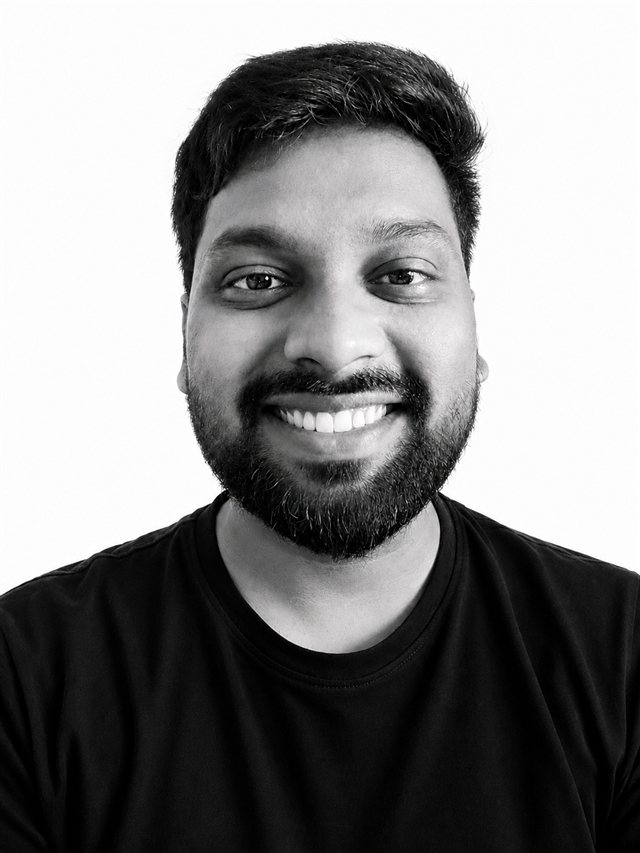
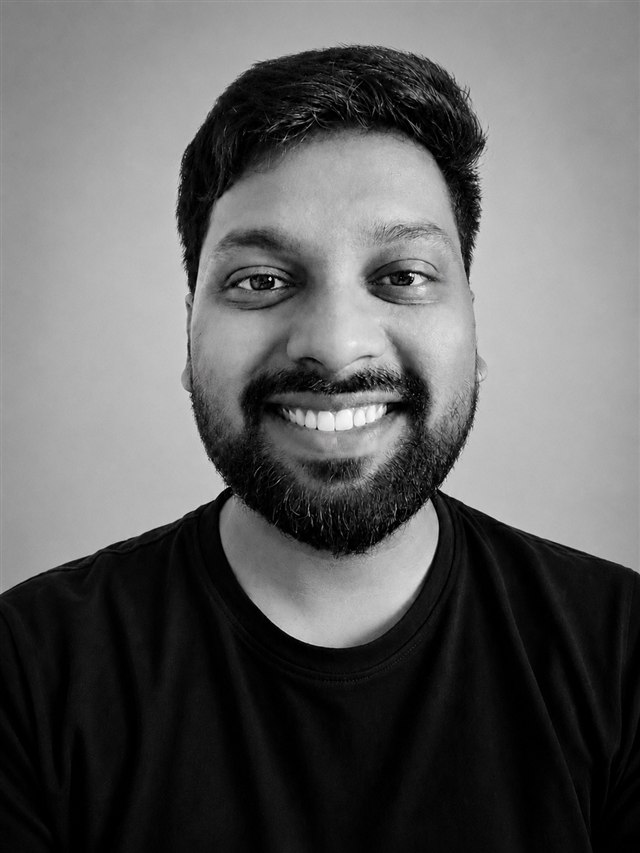
Final founder portrait: natural grey studio backdrop
Rahul Profile Pic Final.png replaces all earlier variants - natural
soft-grey backdrop, no digital fill. Canonical photo updated in the
context file.

diff --git a/TWF-PROJECT-CONTEXT.md b/TWF-PROJECT-CONTEXT.md
@@ -101,10 +101,12 @@ Source line for exam stats: "UPSC Annual Reports" (approximations).
 - **Logo:** silver-metallic W-arrow in a dark circle with orange glow
   (`public/twf-logo.jpg`). Use the actual image, never a recreation.
 - **Founder photo (canonical):** `public/rahul-govindu.jpg` — B&W smiling
-  portrait, black tee, white bg (source: `TWF Assets\Rahul Profile Pic.png`).
-  In the founder section (floated right) and the SAME photo on all social
-  profiles for cross-platform recognition. The stern passport-style B&W
-  (`Rahul PP.jpeg`) was assessed and rejected.
+  portrait, black tee, soft grey studio backdrop (source:
+  `TWF Assets\Rahul Profile Pic Final.png`). In the founder section
+  (framed, right column) and the SAME photo on all social profiles for
+  cross-platform recognition. Rejected variants: stern passport B&W
+  (`Rahul PP.jpeg`), white-bg version, and two digital bg-replacement
+  attempts.
 - **Canvas:** black `#0A0A0B` (grey canvas was tried and rejected).
   Surfaces `#1E1E22` / `#28282D`. Text: silver `#B8BCC4`, strong `#D4D7DC`,
   dim `#7C818A`. Accent orange `#FF7A1A` (soft `#FFA05C`).
